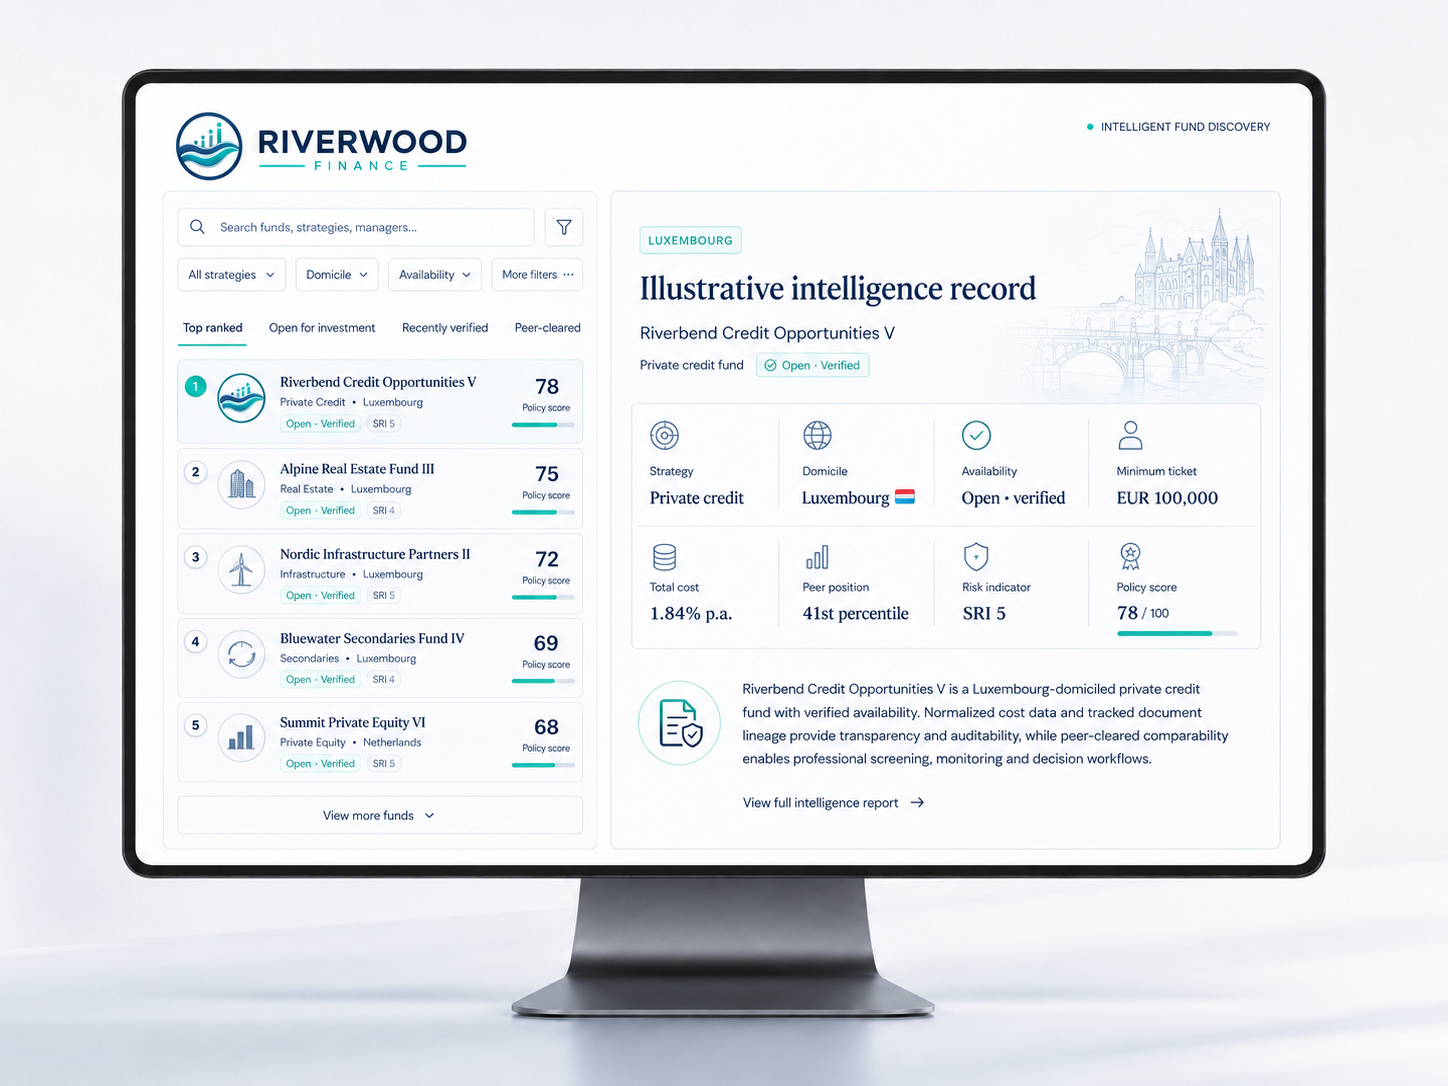
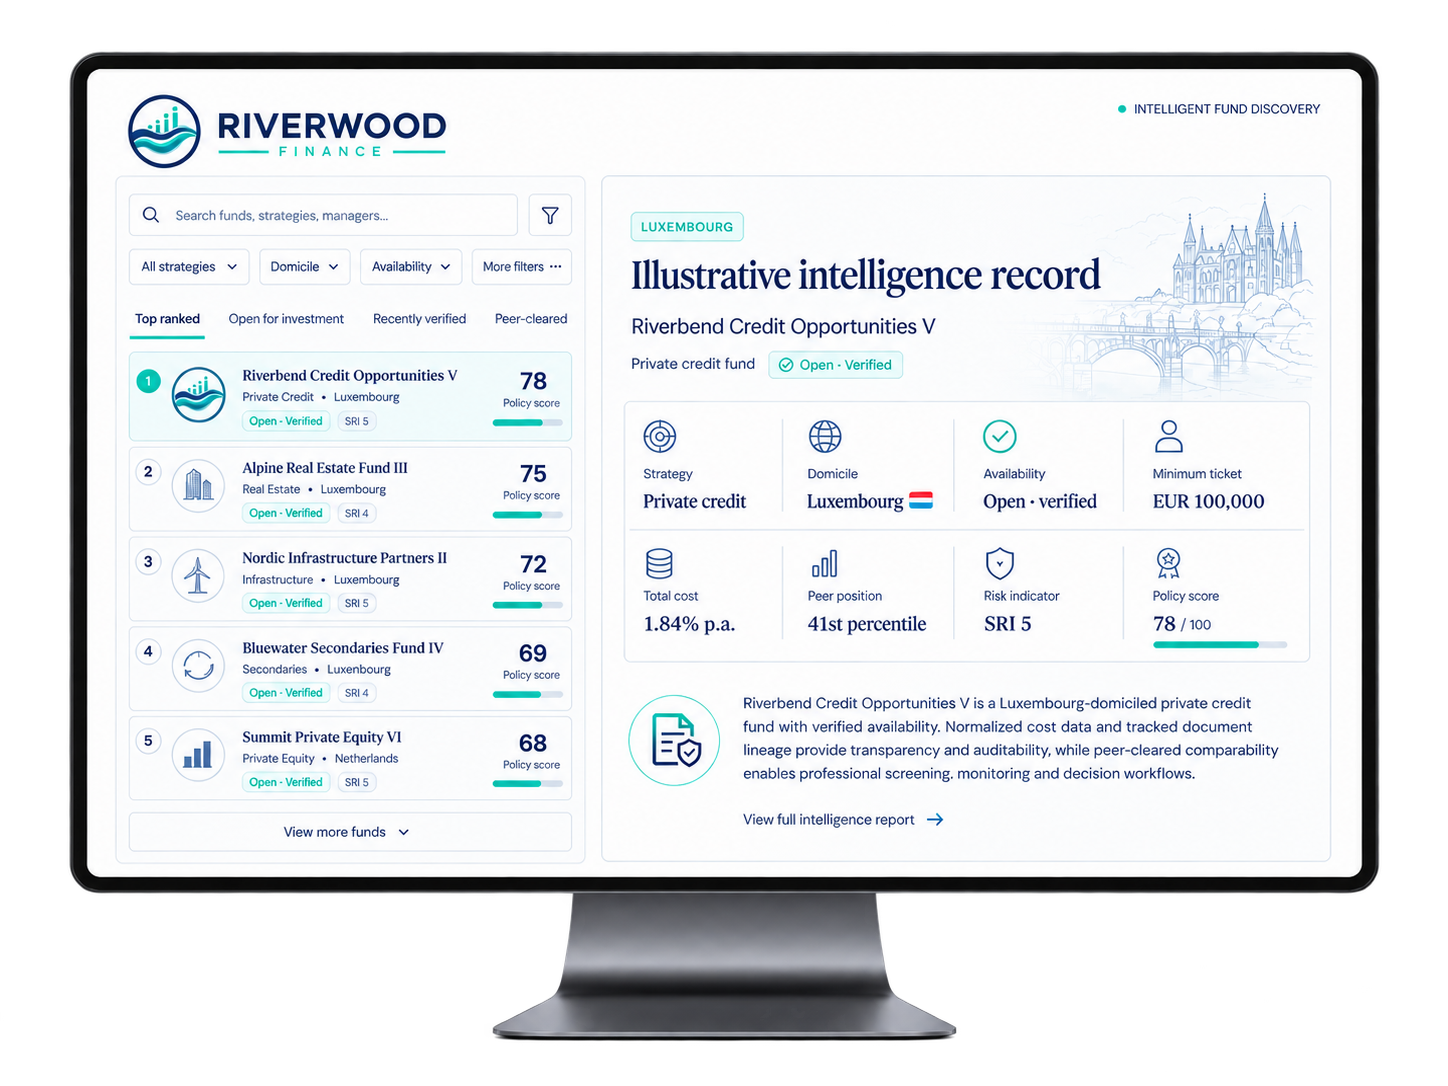
Add files via upload

diff --git a/index.html b/index.html
@@ -55,7 +55,7 @@ a{color:inherit}
   text-transform:uppercase; letter-spacing:.16em; font-size:12px; font-weight:700;
   color:var(--teal); margin-bottom:18px;
 }
-.hero-grid{display:grid; grid-template-columns:1.06fr .94fr; gap:64px; align-items:center}
+.hero-grid{display:grid; grid-template-columns:1.02fr .98fr; gap:52px; align-items:center}
 h1{
   font-family: Georgia, "Times New Roman", serif;
   font-weight:500; color:var(--navy); font-size:clamp(44px,6.1vw,79px);
@@ -84,8 +84,8 @@ h1{
 .metric strong{color:var(--navy); font-size:15px}
 .record-note{margin:18px 0 0; font-size:13px; color:var(--muted)}
 
-.hero-visual{position:relative; z-index:2}
-.hero-visual img{width:100%; height:auto; display:block}
+.hero-visual{position:relative; z-index:2; display:flex; justify-content:flex-end; align-items:center}
+.hero-visual img{width:112%; max-width:none; height:auto; display:block; margin-right:-36px}
 
 .band{background:var(--navy); color:white; padding:26px 0}
 .band-inner{display:flex; gap:28px; align-items:center; justify-content:space-between}
@@ -173,6 +173,8 @@ footer{padding:34px 0 46px; background:var(--paper); font-size:12px; color:#7180
   .navlinks a:not(.nav-cta){display:none}
   .hero-grid,.split,.discovery,.contact-grid{grid-template-columns:1fr}
   .hero{padding-top:58px}
+  .hero-visual{margin-top:10px}
+  .hero-visual img{width:100%; margin-right:0}
   .record{margin-top:8px}
   .flow{grid-template-columns:repeat(2,1fr)}
   .flow div{border-bottom:1px solid var(--line)}
